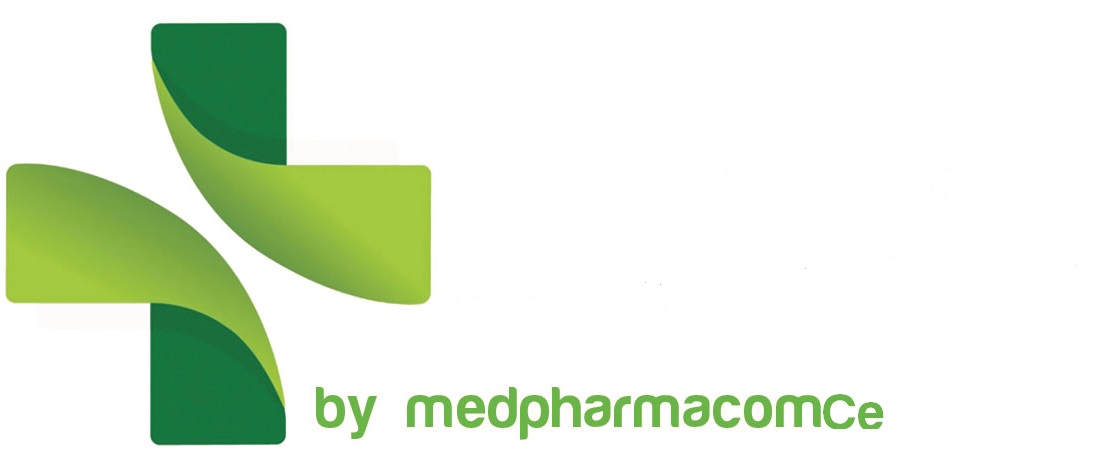
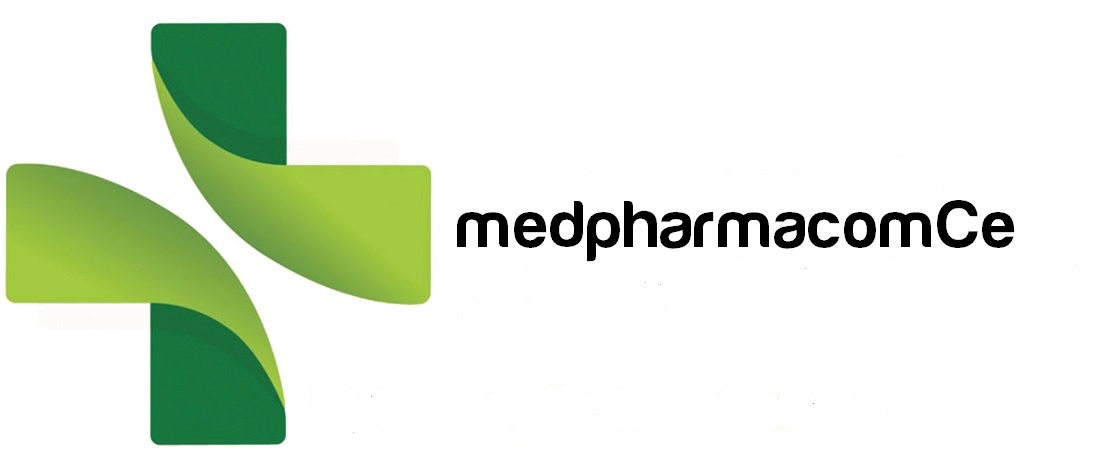
Correctifs Jonath

Changed region(s): [[0.4033, 0.4224, 0.9307, 0.5733], [0.3723, 0.8147, 0.8066, 0.9655], [0.2792, 0.8147, 0.3412, 0.9655]]

diff --git a/public/css/client/home.css b/public/css/client/home.css
@@ -304,8 +304,4 @@ h1 {
   box-shadow: 0 4px 6px 0 rgba(0, 0, 0, 0.2);
 }
 
-.partnersNoBorder {
-  height: 150px;
-}
-
 /*# sourceMappingURL=home.css.map */

diff --git a/resources/assets/sass/client/home.scss b/resources/assets/sass/client/home.scss
@@ -53,7 +53,3 @@
 .partners {
   box-shadow: 0 4px 6px 0 hsla(0, 0%, 0%, 0.2);
 }
-
-.partnersNoBorder {
-  height: 150px;
-}

diff --git a/resources/views/client/home.blade.php b/resources/views/client/home.blade.php
@@ -86,40 +86,38 @@
                 </div>
             </div>
         </div>
-        <div class="row">
-            <div class="col s12">
-                <div class="col l4">
-                    <img class="partnersNoBorder" src="{{ asset('img/partenaires/at.JPG') }}">
-                </div>
-                <div class="col l4">
-                    <img class="partnersNoBorder" src="{{ asset('img/partenaires/hairspring.png') }}">
-                </div>
-                <div class="col l4">
-                    <img class="partnersNoBorder" src="{{ asset('img/partenaires/Konjac-HiRes.jpg') }}">
-                </div>
-                <div class="col l4">
-                    <img class="partnersNoBorder" src="{{ asset('img/partenaires/Samsonite.png') }}">
-                </div>
-                <div class="col l8">
-                    <img class="partnersNoBorder" src="{{ asset('img/partenaires/theoriginalbb.png') }}">
-                </div>
-                <div class="col l4">
-                    <img class="partnersNoBorder" src="{{ asset('img/partenaires/Tumi.png') }}">
-                </div>
-                <div class="col l4">
-                    <img class="partnersNoBorder" src="{{ asset('img/partenaires/wetbrush.png') }}">
-                </div>
-            </div>
-        </div>
         <div class="row" style="margin-top: 120px;">
             <div class="col s12">
                 <div class="owl-carousel owl-theme">
+                    <div class="col l4">
+                        <img class="partnersNoBorder" src="{{ asset('img/partenaires/at.JPG') }}">
+                    </div>
+                    <div class="col l4">
+                        <img class="partnersNoBorder" src="{{ asset('img/partenaires/hairspring.png') }}">
+                    </div>
+                    <div class="col l4">
+                        <img class="partnersNoBorder" src="{{ asset('img/partenaires/Konjac-HiRes.jpg') }}">
+                    </div>
+                    <div class="col l4">
+                        <img class="partnersNoBorder" src="{{ asset('img/partenaires/Samsonite.png') }}">
+                    </div>
+                    <div class="col l8">
+                        <img class="partnersNoBorder" src="{{ asset('img/partenaires/theoriginalbb.png') }}">
+                    </div>
+                    <div class="col l4">
+                        <img class="partnersNoBorder" src="{{ asset('img/partenaires/Tumi.png') }}">
+                    </div>
+                    <div class="col l4">
+                        <img class="partnersNoBorder" src="{{ asset('img/partenaires/wetbrush.png') }}">
+                    </div>
+                    <!--
                     <div class="col l4"><img src="{{ asset('img/vertbaudet.png') }}" class="test-img" alt="vertbaudet" title="vertbaudet"/></div>
                     <div class="col l4"><img src="{{ asset('img/Le_Creuset_Logo.png') }}" class="test-img" alt="Le_Creuset_Logo" title="Le_Creuset_Logo"/></div>
                     <div class="col l4"><img src="{{ asset('img/swarovski.png') }}" class="test-img" alt="swarovski" title="swarovski"/></div>
                     <div class="col l4"><img src="{{ asset('img/DELSEY_LOGO.png') }}" class="test-img" alt="Delsey logo" title="Delsey logo"/></div>
                     <div class="col l4"><img src="{{ asset('img/longchamp.png') }}" class="test-img" alt="longchamp" title="longchamp"/></div>
                     <div class="col l4"><img src="{{ asset('img/apple.png') }}"  class="responsive-img test-img" alt="apple" title="apple"/></div>
+                    -->
                 </div>
             </div>
         </div>

diff --git a/resources/views/admin/gestion-partenaires.blade.php b/resources/views/admin/gestion-partenaires.blade.php
@@ -17,6 +17,31 @@
                 <p>Cette page vous permet de gérer l'ordre d'affichage de vos partenaires</p>
                 <div>
                     <h1 class="left-align">Vitrine</h1>
+                    <div class="file-field input-field col l12">
+                        <div class="btn">
+                            <span>Votre image</span>
+                            <input type="file">
+                        </div>
+                        <div class="file-path-wrapper">
+                            <input class="file-path validate" type="text">
+                        </div>
+                    </div>
+                    <div class="input-field col s3">
+                        <input type="text" name="nomImage" placeholder="Nom de l'image...">
+                    </div>
+                    <div class="input-field col s3">
+                        <input type="text" name="lienImage" placeholder="Lien de l'image...">
+                    </div>
+                    <div class="input-field col s3">
+                        <select>
+                            <option value="" disabled selected>Actif ?</option>
+                            <option value="1">Oui</option>
+                            <option value="0">Non</option>
+                        </select>
+                    </div>
+                    <div class="input-field col s3">
+                        <button type="submit" class="btn waves-effect">Mettre à jour</button>
+                    </div>
                     <table id="partnersVitrineTable" class="hover">
                         <thead>
                         <tr>
@@ -95,6 +120,7 @@
                 "bInfo": false,
                 responsive: true
             });
+            $('select').material_select();
         } );
     </script>
 @endsection

diff --git a/resources/views/admin/gestion-commandes.blade.php b/resources/views/admin/gestion-commandes.blade.php
@@ -22,8 +22,8 @@
                     <thead>
                     <tr>
                         <th>id_commande</th>
-                        <th>ref_id_utilisateur</th>
-                        <th>ref_id_produit</th>
+                        <th>ref_nom_user</th>
+                        <th>ref_nom_produit</th>
                         <th>date</th>
                         <th>statut</th>
                     </tr>
@@ -31,21 +31,21 @@
                     <tbody>
                     <tr>
                         <td>1</td>
-                        <td>5</td>
+                        <td>Master jloQ</td>
                         <td>Montre Stella, Bracelet en cuir, blanc, ton argenté</td>
                         <td>22-03-2005</td>
                         <td contenteditable>En cours</td>
                     </tr>
                     <tr>
                         <td>2</td>
-                        <td>8</td>
+                        <td>Xcas l'intrépide</td>
                         <td>Montre Stella, Bracelet en cuir, rose</td>
                         <td>01-11-2010</td>
                         <td contenteditable>Cloturé</td>
                     </tr>
                     <tr>
                         <td>2</td>
-                        <td>8</td>
+                        <td>Le ragout superficiel</td>
                         <td>Montre Stella, Bracelet en cuir, bleue</td>
                         <td>01-11-2010</td>
                         <td contenteditable>A vérifier</td>

diff --git a/resources/views/admin/gestion-encarts-publicitaires.blade.php b/resources/views/admin/gestion-encarts-publicitaires.blade.php
@@ -17,6 +17,22 @@
                 <p>Cette page vous permet de gérer l'ordre d'affichage de vos encarts publicitaires</p>
                 <div>
                     <h1 class="left-align">Vitrine</h1>
+                    <div class="input-field col s3">
+                        <input type="text" name="nomImage" placeholder="Nom de l'image...">
+                    </div>
+                    <div class="input-field col s3">
+                        <input type="text" name="lienImage" placeholder="Lien de l'image...">
+                    </div>
+                    <div class="input-field col s3">
+                        <select>
+                            <option value="" disabled selected>Actif ?</option>
+                            <option value="1">Oui</option>
+                            <option value="0">Non</option>
+                        </select>
+                    </div>
+                    <div class="input-field col s3">
+                        <button type="submit" class="btn waves-effect">Mettre à jour</button>
+                    </div>
                     <table id="pubVitrineTable" class="hover">
                         <thead>
                         <tr>
@@ -95,6 +111,7 @@
                 "bInfo": false,
                 responsive: true
             });
+            $('select').material_select();
         } );
     </script>
 @endsection

diff --git a/resources/views/layout-user.blade.php b/resources/views/layout-user.blade.php
@@ -28,7 +28,7 @@
                 <img src="{{ asset('img/medpharmacomCe.jpg') }}" alt="medpharmacom-logo" title="medpharmacom-logo" id="logo-medpharmacom-menu" />
             </a>
             <ul id="nav-mobile" class="left">
-                <li style="width:20%;"><a id="logo-home-pc" href="{{ url('/') }}"><img src="{{ asset('img/medpharmacomCe.jpg.jpg') }}" alt="medpharmacom-logo" title="medpharmacom-logo" id="logo-medpharmacom-menu-pc"/></a></li>
+                <li style="width:20%;"><a id="logo-home-pc" href="{{ url('/') }}"><img src="{{ asset('img/medpharmacomCe.jpg') }}" alt="medpharmacom-logo" title="medpharmacom-logo" id="logo-medpharmacom-menu-pc"/></a></li>
                 <li class="li-menu"><a href="{{ url('/') }}">Accueil</a></li>
                 <li class="li-menu"><a href="{{ url('/catalogue') }}">Catalogue</a></li>
                 <li class="li-menu"><a href="{{ url('/mes-commandes') }}">Mes commandes</a></li>
